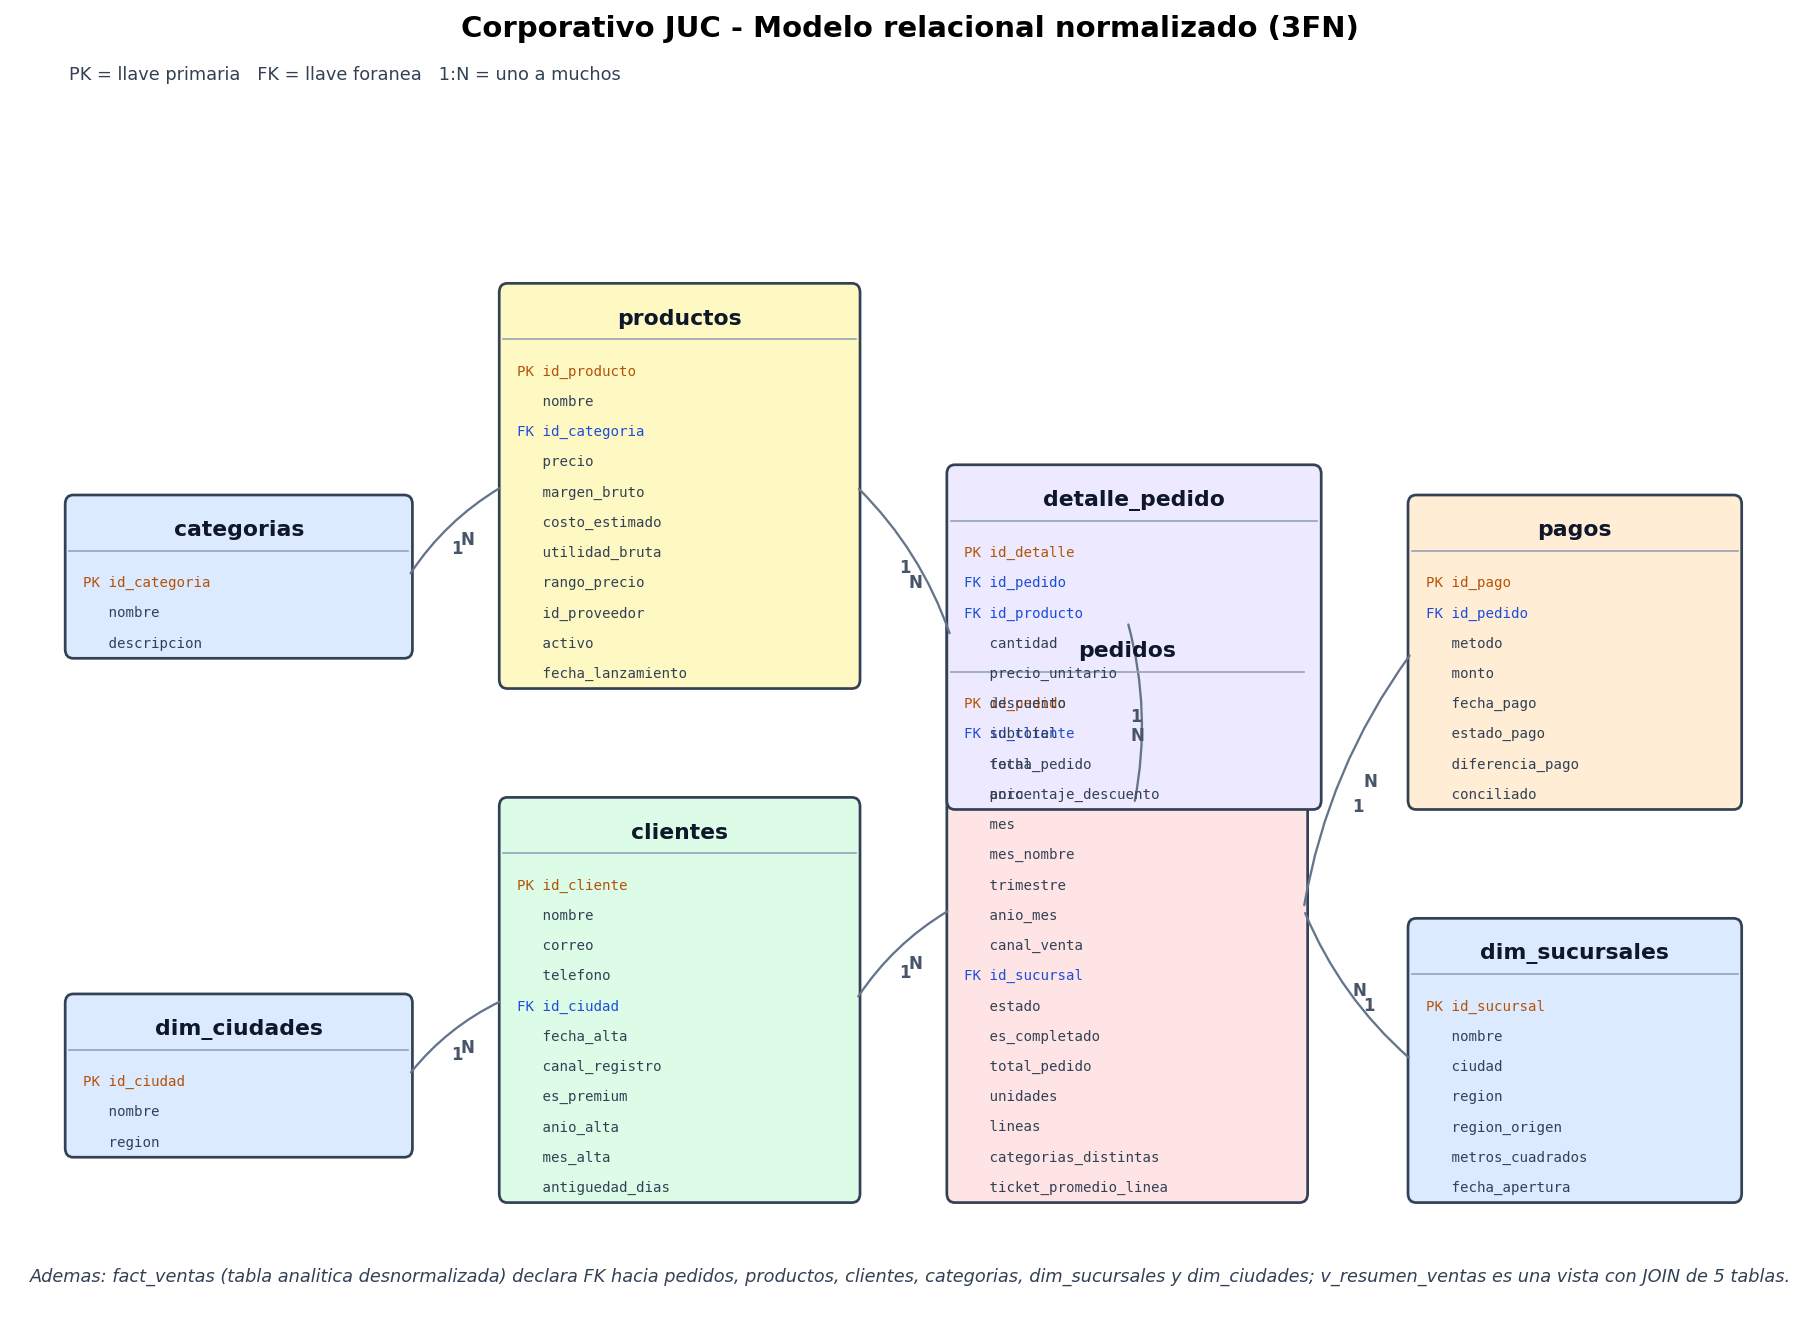
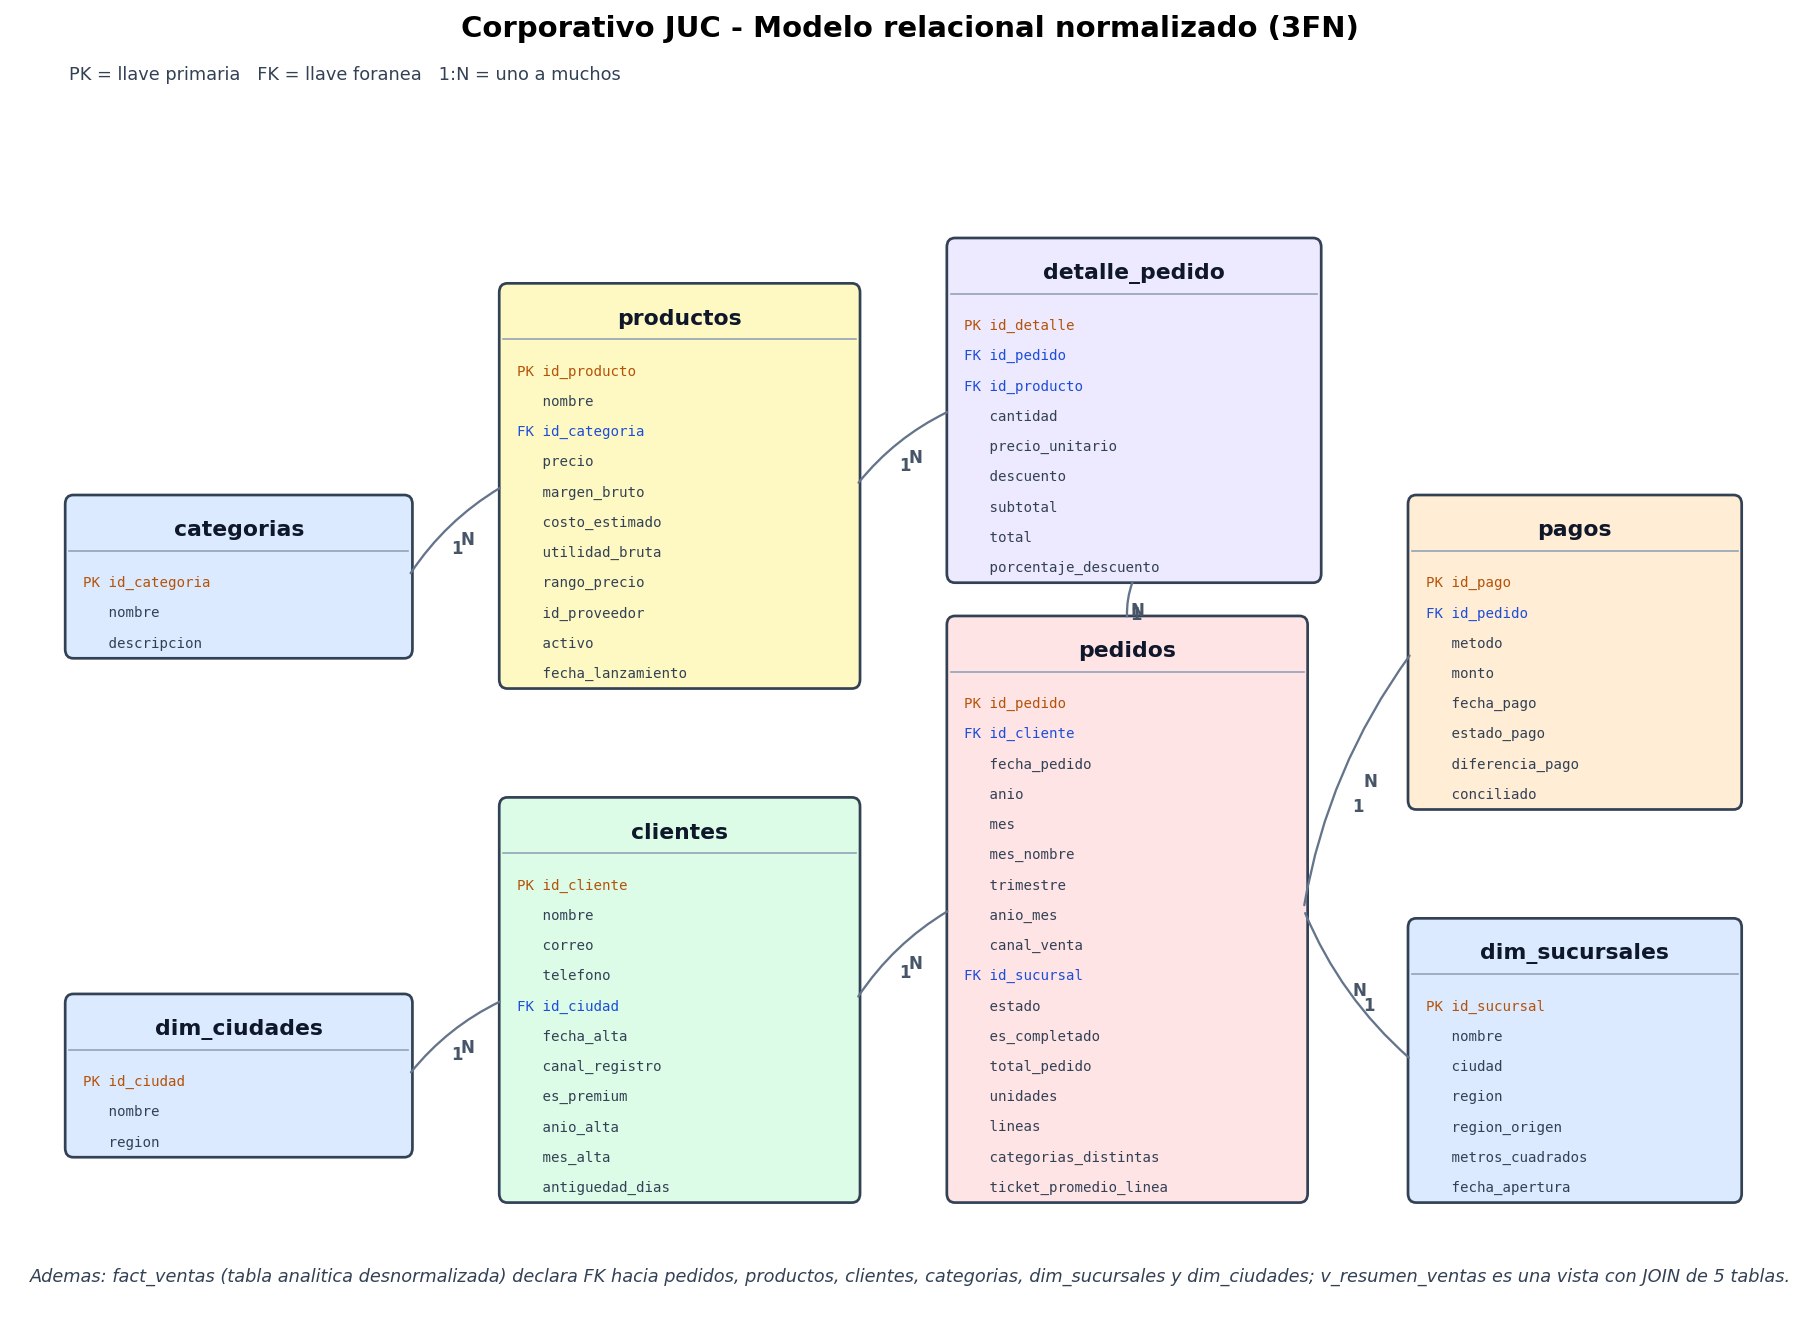
refactor: el diagrama ER queda como artefacto estatico
- Se elimina src/er_diagram.py y la llamada en integration.py: el PNG ya
  no se regenera en cada corrida; es el modelo relacional estatico del
  proyecto (el enunciado no exige generacion automatica).
- modelo_relacional.png se regenera corregido: detalle_pedido deja de
  traslaparse con pedidos (y = 4.6 -> 6.1).
- informe.md: referencia a artefacto estatico y se retira el .md de
  3FN (contenido absorbido en la seccion 8).
- 167 pruebas en verde.

diff --git a/src/integration.py b/src/integration.py
@@ -2231,11 +2231,6 @@ def main() -> None:
     resumen.to_csv(destino, index=False, encoding="utf-8-sig")
     LOG.info("  Resumen -> %s", destino)
 
-    # ---- Diagrama ER y justificacion 3FN --------------------------------
-    from er_diagram import generar_modelo
-
-    generar_modelo(REPORTS)
-
     (REPORTS / "integracion_entorno.md").write_text(_texto_entorno(sql, mongo), encoding="utf-8")
     LOG.info("  Entorno -> %s", REPORTS / "integracion_entorno.md")
 

diff --git a/informe.md b/informe.md
@@ -191,7 +191,7 @@ Notas operativas:
 | Visualizaciones | 13/13 OK |
 | Motor relacional | Supabase (PostgreSQL 17) |
 | Motor NoSQL | MongoDB Atlas (M0) |
-| Diagrama ER | generado (`data/reports/modelo_relacional.png`) |
+| Diagrama ER | presente (`data/reports/modelo_relacional.png`, commiteado) |
 
 Detalle de incidencias reales: sección 14 y 16.
 
@@ -214,7 +214,6 @@ Proyecto_BigData/
 │   ├── etl_transform.py      las 10 transformaciones (T01..T10)
 │   ├── etl_load.py           3FN + dataset analítico + documentos
 │   ├── integration.py        DDL, carga, verificación, 20 SQL, 12 pipelines, 15 find
-│   ├── er_diagram.py         diagrama ER (PNG) + justificación 3FN
 │   ├── analysis.py           21 análisis de negocio
 │   ├── viz.py                13 gráficos Plotly -> HTML
 │   └── run_all.py            orquestador de etapas
@@ -348,9 +347,11 @@ mensual).
 | `NOT NULL` (columnas clave) | 15 |
 | `CHECK` (precios > 0, margen en [0,1], cantidades, descuentos, `total = subtotal - descuento`) | 9 |
 
-Diagrama ER y justificación 3FN: generados en cada corrida
-(`data/reports/modelo_relacional.png`); el DDL completo vive en
-`data/sql/01_ddl.sql` (copia en `data/reports/consultas_sql/01_ddl.sql`).
+Diagrama ER (`data/reports/modelo_relacional.png`, commiteado y estable):
+artefacto estático para mostrar la estructura de la base de datos; el DDL
+completo vive en `data/sql/01_ddl.sql` (copia en
+`data/reports/consultas_sql/01_ddl.sql`). El PNG se dibujó a partir del esquema
+real y se puede reexportar manualmente si el modelo cambia.
 
 **¿Por qué 3FN?** Cada tabla representa una entidad con dependencias
 funcionales solo sobre su llave: nada describe un atributo de otra entidad
@@ -761,12 +762,15 @@ cosmético.
 ## 17. Documentación, archivos regenerables y git
 
 `data/sql/03_explain_analyze.md`, `data/reports/consultas_sql/03_explain_analyze.md`,
-`data/reports/modelo_relacional.md`, `data/reports/integracion_entorno.md` y
+`data/reports/integracion_entorno.md` y
 `data/reports/analisis/analisis_resumen.md` son **artefactos regenerados por
 cada corrida** (verificado por sus timestamps en corridas anteriores). Por
 eso quedaron fuera del índice git (`.gitignore` los registra como
 regenerables) y su contenido vive resumido en este informe; la evidencia
 medición cuantitativa se conserva en `04_explain_analyze.csv` y los Q/A/B CSV.
+El antiguo `modelo_relacional.md` ya no se regenera (el generador del ER se
+eliminó); el diagrama quedó como `modelo_relacional.png` estático y la
+justificación 3FN vive en este informe (sección 8).
 
 **Solo 2 archivos `.md` en el repositorio** (`README.md` e `informe.md`): el
 resto se eliminó (README_CARPETAS, GUIA_CONEXION_NUBE, skills de
